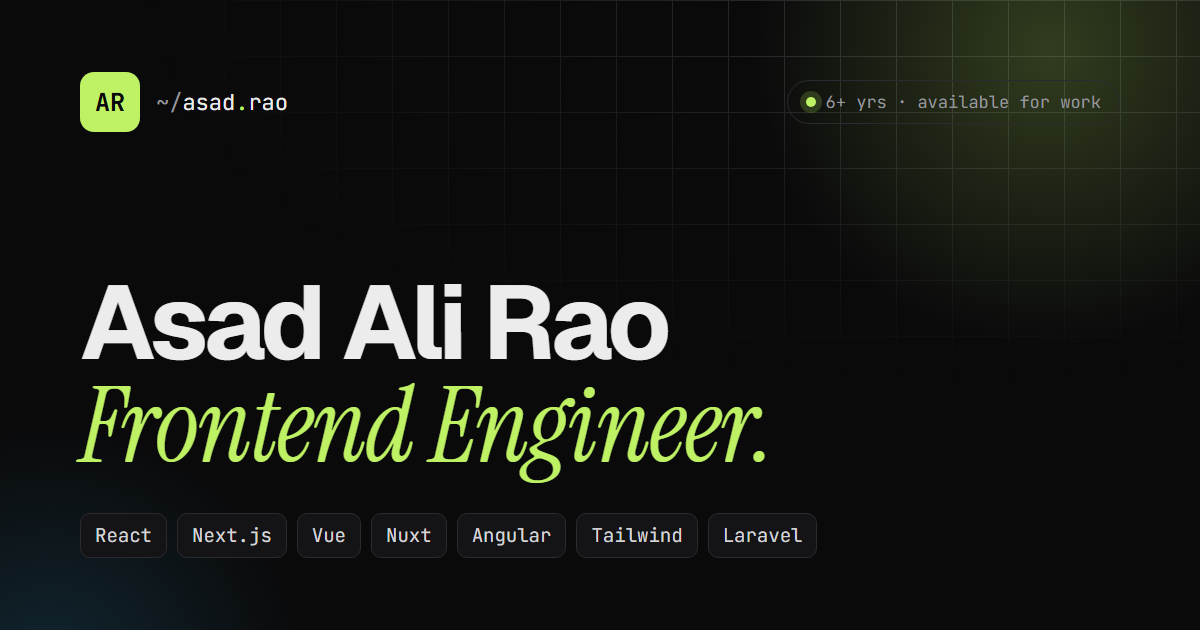
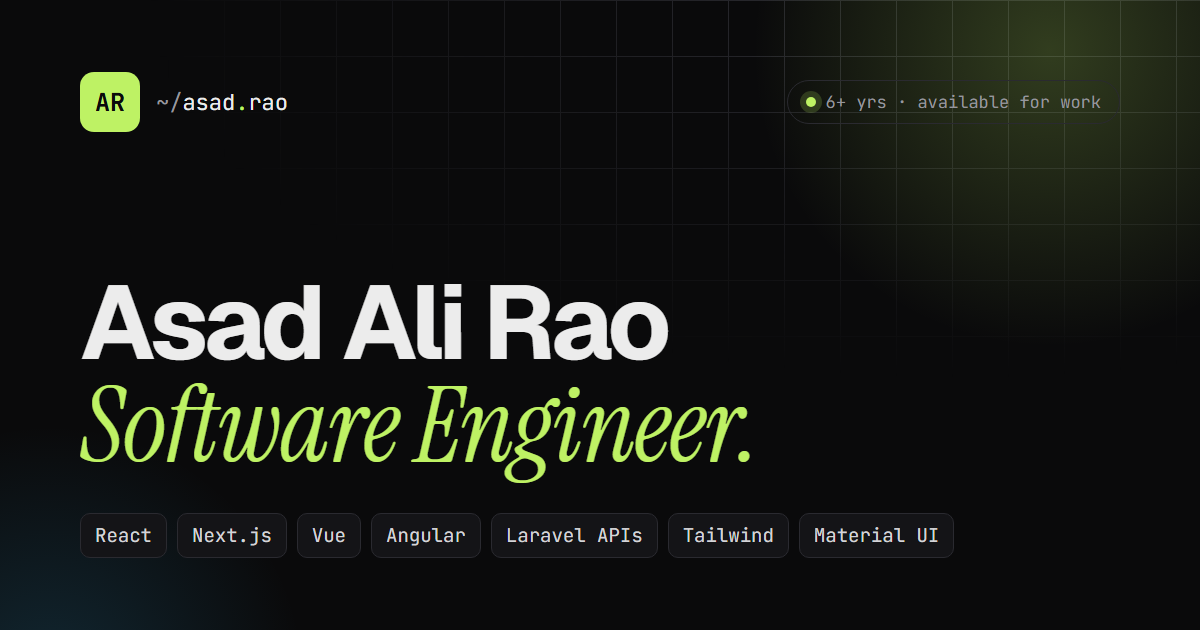
Retitle to Software Engineer; add Laravel APIs, Material UI, Bootstrap, custom CSS to stack

Changed region(s): [[0.0617, 0.6032, 0.6475, 0.7841], [0.3083, 0.8143, 0.8017, 0.8746]]

diff --git a/index.html b/index.html
@@ -3,8 +3,8 @@
 <head>
   <meta charset="utf-8" />
   <meta name="viewport" content="width=device-width, initial-scale=1" />
-  <title>Asad Ali Rao — Frontend Engineer</title>
-  <meta name="description" content="Asad Ali Rao — Frontend engineer with 6+ years building fast, responsive, pixel-perfect interfaces with React, Next.js, Vue, Nuxt, Angular, Tailwind and Laravel." />
+  <title>Asad Ali Rao — Software Engineer</title>
+  <meta name="description" content="Asad Ali Rao — Software engineer with 6+ years building fast, responsive, pixel-perfect products with React, Next.js, Vue, Angular, Laravel APIs, Tailwind, Bootstrap, Material UI and custom CSS." />
   <meta name="author" content="Asad Ali Rao" />
   <meta name="theme-color" content="#0a0a0b" />
 
@@ -18,15 +18,15 @@
   <meta property="og:type" content="website" />
   <meta property="og:site_name" content="Asad Ali Rao" />
   <meta property="og:url" content="https://asaddrao.github.io/asadali/" />
-  <meta property="og:title" content="Asad Ali Rao — Frontend Engineer" />
-  <meta property="og:description" content="6+ years crafting fast, responsive, pixel-perfect interfaces. React · Next.js · Vue · Nuxt · Angular · Tailwind." />
+  <meta property="og:title" content="Asad Ali Rao — Software Engineer" />
+  <meta property="og:description" content="6+ years crafting fast, responsive, pixel-perfect products. React · Next.js · Vue · Angular · Laravel APIs · Tailwind · Material UI." />
   <meta property="og:image" content="https://asaddrao.github.io/asadali/assets/og-image.png" />
   <meta property="og:image:width" content="1200" />
   <meta property="og:image:height" content="630" />
-  <meta property="og:image:alt" content="Asad Ali Rao — Frontend Engineer" />
+  <meta property="og:image:alt" content="Asad Ali Rao — Software Engineer" />
   <meta name="twitter:card" content="summary_large_image" />
   <meta name="twitter:site" content="@asaddrao" />
-  <meta name="twitter:title" content="Asad Ali Rao — Frontend Engineer" />
+  <meta name="twitter:title" content="Asad Ali Rao — Software Engineer" />
   <meta name="twitter:description" content="6+ years crafting fast, responsive, pixel-perfect interfaces." />
   <meta name="twitter:image" content="https://asaddrao.github.io/asadali/assets/og-image.png" />
 
@@ -229,8 +229,9 @@
         </h1>
 
         <p class="reveal mt-6 max-w-xl text-lg leading-relaxed text-muted" style="transition-delay:.1s">
-          Hi, I'm <span class="font-medium text-ink">Asad Ali Rao</span> — a frontend engineer turning designs into fast, responsive, pixel-perfect products with
-          <span class="text-ink">React</span>, <span class="text-ink">Next.js</span>, <span class="text-ink">Vue</span>, <span class="text-ink">Angular</span> &amp; <span class="text-ink">Tailwind</span>.
+          Hi, I'm <span class="font-medium text-ink">Asad Ali Rao</span> — a software engineer turning designs into fast, responsive, pixel-perfect products with
+          <span class="text-ink">React</span>, <span class="text-ink">Next.js</span>, <span class="text-ink">Vue</span>, <span class="text-ink">Angular</span>, <span class="text-ink">Laravel APIs</span>,
+          <span class="text-ink">Tailwind</span>, <span class="text-ink">Bootstrap</span>, <span class="text-ink">Material UI</span> &amp; <span class="text-ink">custom CSS</span>.
         </p>
 
         <p class="reveal mt-5 font-mono text-sm text-muted" style="transition-delay:.15s">
@@ -271,12 +272,12 @@
           </div>
           <pre class="overflow-x-auto p-5 font-mono text-[12.5px] leading-[1.85] sm:text-[13px]"><code><span class="text-muted">// hello, world 👋</span>
 <span class="text-accent2">const</span> asad <span class="text-muted">=</span> {
-  role<span class="text-muted">:</span>     <span class="text-accent">'Frontend Engineer'</span>,
+  role<span class="text-muted">:</span>     <span class="text-accent">'Software Engineer'</span>,
   based<span class="text-muted">:</span>    <span class="text-accent">'Pakistan · remote'</span>,
   now<span class="text-muted">:</span>      <span class="text-accent">'@ Social Champ'</span>,
   stack<span class="text-muted">:</span>    [<span class="text-accent">'React'</span>, <span class="text-accent">'Next.js'</span>, <span class="text-accent">'Vue'</span>,
              <span class="text-accent">'Nuxt'</span>, <span class="text-accent">'Angular'</span>, <span class="text-accent">'Laravel'</span>],
-  styling<span class="text-muted">:</span>  [<span class="text-accent">'Tailwind'</span>, <span class="text-accent">'Sass'</span>, <span class="text-accent">'Bootstrap'</span>],
+  styling<span class="text-muted">:</span>  [<span class="text-accent">'Tailwind'</span>, <span class="text-accent">'MUI'</span>, <span class="text-accent">'Bootstrap'</span>],
   cms<span class="text-muted">:</span>      [<span class="text-accent">'WordPress'</span>, <span class="text-accent">'Elementor'</span>],
   obsessed<span class="text-muted">:</span> <span class="text-accent">'pixel-perfect UI'</span>,
   <span class="text-accent2">ship</span>()   { <span class="text-accent2">return</span> <span class="text-accent">'fast · clean · responsive'</span> },
@@ -304,7 +305,7 @@
           Where <span class="font-serif font-normal italic">design</span> meets clean, <span class="font-serif font-normal italic text-accent">scalable</span> code.
         </h2>
         <div class="reveal space-y-5 text-lg leading-relaxed text-muted">
-          <p>I'm a frontend developer with <span class="yearsExp text-ink">6+</span> <span class="text-ink">years</span> of experience across five companies — currently at <span class="text-ink">Social Champ</span>. My main goal is to combine <span class="text-ink">technology and design</span> to create inviting, easy-to-use websites — and to build lasting relationships with the people I work with.</p>
+          <p>I'm a software engineer with <span class="yearsExp text-ink">6+</span> <span class="text-ink">years</span> of experience across five companies — currently at <span class="text-ink">Social Champ</span>. My main goal is to combine <span class="text-ink">technology and design</span> to create inviting, easy-to-use websites — and to build lasting relationships with the people I work with.</p>
           <p>From agency sites in the UK to real-estate platforms in Pakistan and e-commerce stores in the UAE, I've shipped production work for clients across <span class="text-ink">6 countries</span>. I care about the details users feel but rarely notice.</p>
           <div class="flex flex-wrap gap-2 pt-2">
             <span class="rounded-full border border-line bg-surface px-3 py-1 font-mono text-xs text-ink">Pakistan</span>
@@ -324,7 +325,7 @@
         <div class="lg:sticky lg:top-28 lg:self-start">
           <p class="reveal font-mono text-xs uppercase tracking-[.2em] text-accent">02 — experience</p>
           <h2 class="reveal mt-4 text-3xl font-semibold tracking-tight sm:text-5xl">Where I've <span class="font-serif font-normal italic">worked</span>.</h2>
-          <p class="reveal mt-4 max-w-sm text-muted"><span class="yearsExp text-ink">6+</span> years shipping production frontends — from agency builds to SaaS products.</p>
+          <p class="reveal mt-4 max-w-sm text-muted"><span class="yearsExp text-ink">6+</span> years shipping production web apps — from agency builds to SaaS products.</p>
 
           <!-- career bar -->
           <div class="reveal mt-10">
@@ -457,7 +458,7 @@
           <p class="reveal font-mono text-xs uppercase tracking-[.2em] text-accent">03 — services</p>
           <h2 class="reveal mt-4 text-3xl font-semibold tracking-tight sm:text-5xl">What I <span class="font-serif font-normal italic">do</span> best.</h2>
         </div>
-        <p class="reveal max-w-sm text-muted">End-to-end frontend — from the first Figma frame to a fast, maintained site in production.</p>
+        <p class="reveal max-w-sm text-muted">End-to-end web development — from the first Figma frame and API to a fast, maintained product in production.</p>
       </div>
 
       <div class="mt-12 grid gap-4 md:grid-cols-6">
@@ -478,11 +479,11 @@
             </div>
             <div class="rounded-2xl border border-line bg-bg/50 p-4">
               <p class="font-mono text-[11px] uppercase tracking-widest text-muted">styling</p>
-              <p class="mt-2 text-sm">Tailwind · Sass · Less · Bootstrap</p>
+              <p class="mt-2 text-sm">Tailwind · Material UI · Bootstrap · Sass · custom CSS</p>
             </div>
             <div class="rounded-2xl border border-line bg-bg/50 p-4">
               <p class="font-mono text-[11px] uppercase tracking-widest text-muted">backend &amp; cms</p>
-              <p class="mt-2 text-sm">Laravel · WordPress · Elementor</p>
+              <p class="mt-2 text-sm">Laravel REST APIs · WordPress · Elementor</p>
             </div>
           </div>
           <!-- faux responsive preview -->
@@ -716,7 +717,7 @@
       { title: 'Ownartical',             cat: 'E-commerce',  url: 'https://ownartical.com/coupons',           img: 'work-17-artical.jpg',         desc: 'Coupons & deals portal with store listings and offer cards.',                        tags: ['Coupons', 'Content'] },
     ];
 
-    const STACK = ['React', 'Next.js', 'Vue.js', 'Nuxt', 'Angular', 'TypeScript', 'JavaScript', 'Laravel', 'Tailwind CSS', 'Sass', 'Bootstrap', 'HTML5', 'CSS3', 'jQuery', 'WordPress', 'Elementor', 'Git', 'Photoshop', 'Illustrator'];
+    const STACK = ['React', 'Next.js', 'Vue.js', 'Nuxt', 'Angular', 'TypeScript', 'JavaScript', 'Laravel APIs', 'REST APIs', 'Tailwind CSS', 'Material UI', 'Bootstrap', 'Sass', 'Custom CSS', 'HTML5', 'CSS3', 'jQuery', 'WordPress', 'Elementor', 'Git', 'Photoshop', 'Illustrator'];
 
     const SOCIALS = [
       { label: 'github',   url: 'https://github.com/asaddrao' },
@@ -1012,7 +1013,7 @@
     $('#uptime').innerHTML = Array.from({ length: 40 }, (_, i) => `<span class="h-6 flex-1 rounded-sm ${i === 23 ? 'bg-accent2/60' : 'bg-accent/70'}"></span>`).join('');
 
     // typing effect
-    const ROLES = ['frontend engineer', 'react developer', 'next.js engineer', 'vue & nuxt dev', 'tailwind enthusiast', 'pixel perfectionist', 'ui craftsman'];
+    const ROLES = ['software engineer', 'laravel api builder', 'react developer', 'next.js engineer', 'vue & nuxt dev', 'tailwind enthusiast', 'pixel perfectionist', 'ui craftsman'];
     (function type(r = 0, i = 0, del = false) {
       const el = $('#typed'), word = ROLES[r];
       el.textContent = word.slice(0, i);
